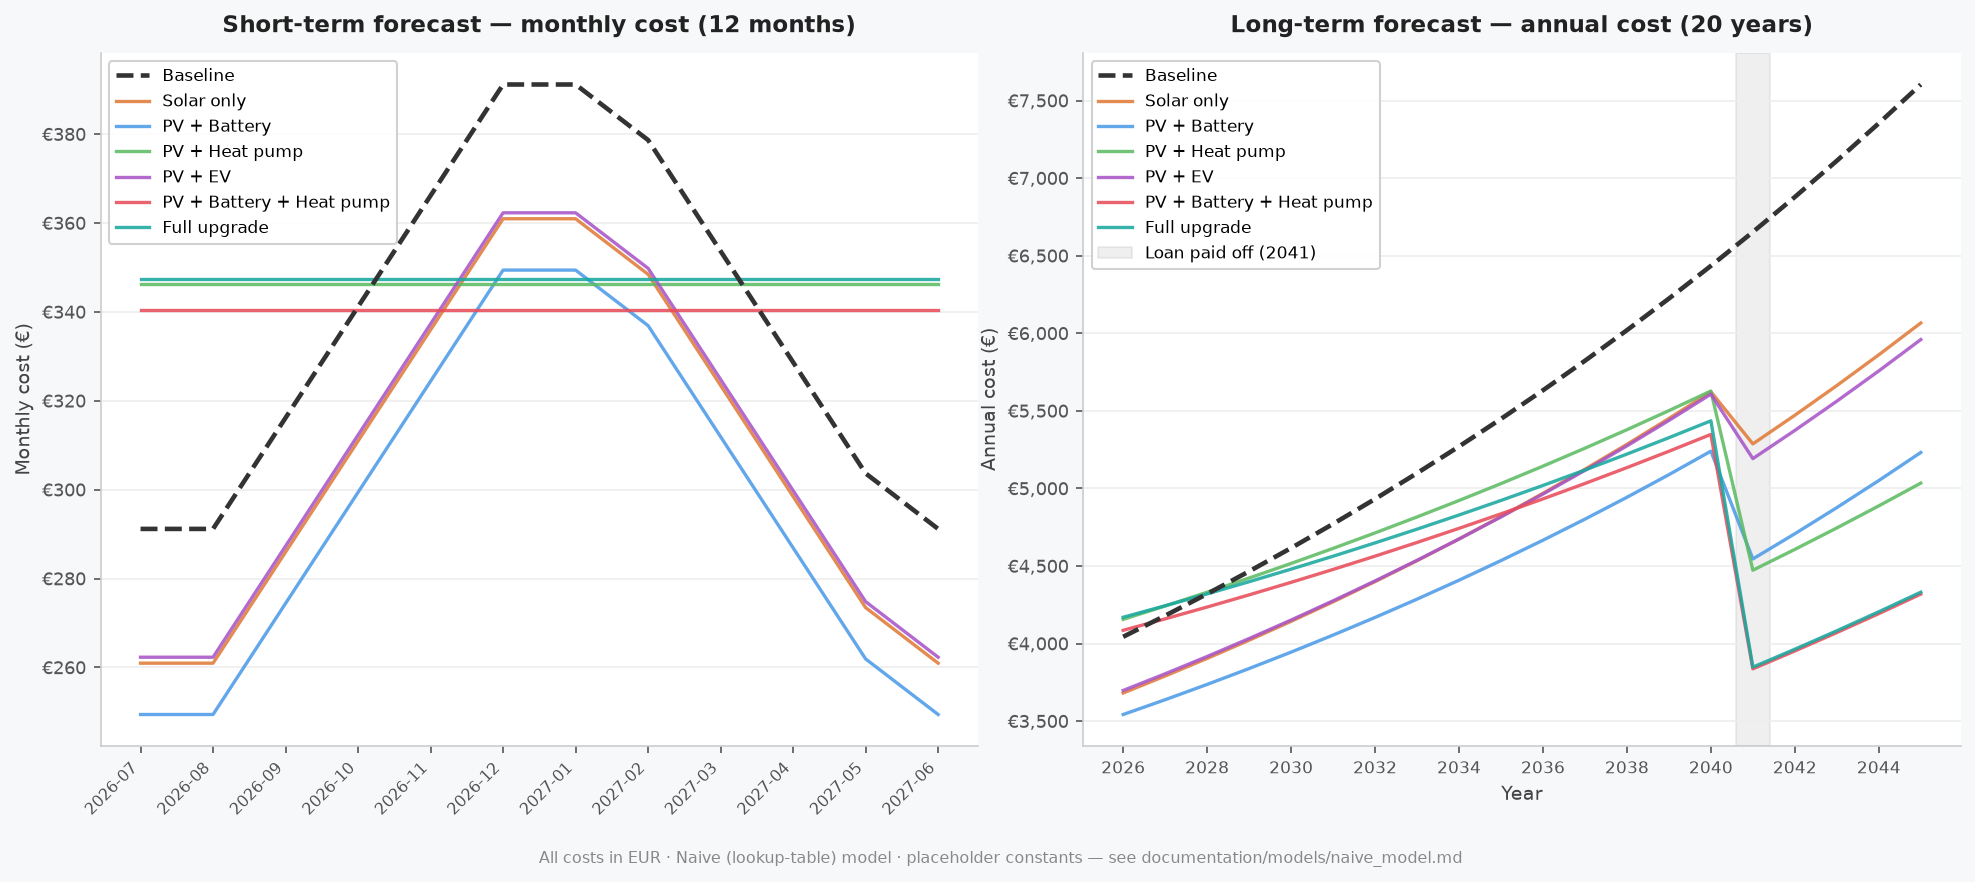
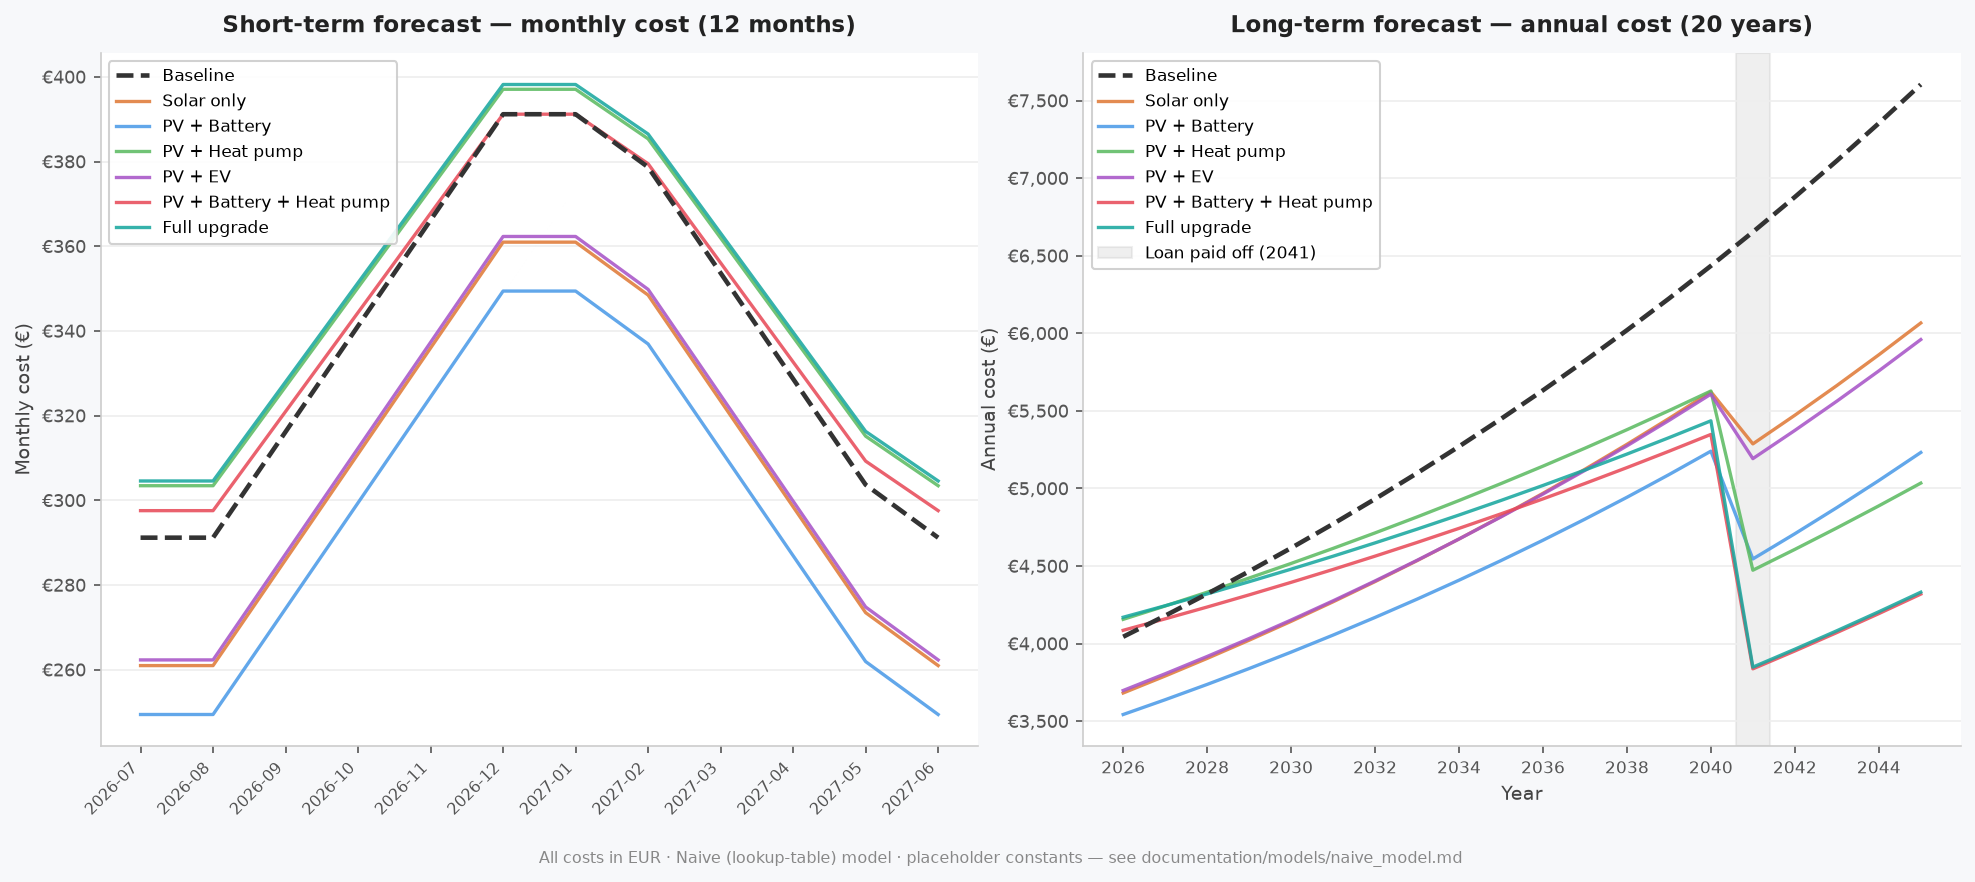
updated the dummy model

diff --git a/scripts/run_baseline_model.py b/scripts/run_baseline_model.py
@@ -306,11 +306,20 @@ def run_model(input_path: Path, output_path: Path) -> None:
             payback_month = None
 
         # Short-term scenario forecast
+        # For HP scenarios, the heating cost is 0 but the HP drives seasonal electricity
+        # demand. Split sc_elec_m into a flat non-HP portion and a seasonal HP portion
+        # (hp_load × arb / 12), then apply the heating seasonal weight to the HP slice.
+        # Weights average to 1.0, so the 12-month sum equals the annual total unchanged.
+        hp_elec_m = (hp_load_kwh * arb / 12) if has_hp else 0.0
+        sc_elec_flat_m = sc_elec_m - hp_elec_m  # non-seasonal remainder
+
         scen_stf = []
         for y, m in _iter_months(first_st_year, first_st_month, st_months):
             w = HEATING_SEASONAL_WEIGHTS[m - 1]
-            heat_m_scen = sc_heat_m * w  # 0 if HP scenario
-            total_m = sc_elec_m + heat_m_scen + sc_mob_m + monthly_installment
+            if has_hp:
+                total_m = sc_elec_flat_m + hp_elec_m * w + sc_mob_m + monthly_installment
+            else:
+                total_m = sc_elec_m + sc_heat_m * w + sc_mob_m + monthly_installment
             base_total_m = base_elec_monthly + base_heat_monthly * w + base_mob_monthly
             scen_stf.append({
                 "month": f"{y:04d}-{m:02d}",